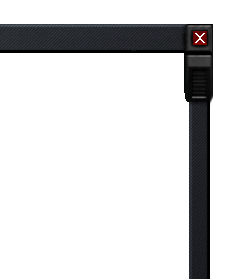
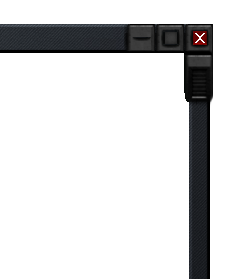
Version 7.3.98 (11.08.2023) - UPDATED: Window resize behaviour - UPDATED: New gui level for border shadow - UPDATED: Noise image resize behaviour - UPDATED: Dependencies - ADDED: Buttons to maximize and minimize the window (not working yet)

Changed region(s): [[0.5021, 0.086, 0.7679, 0.2007]]

diff --git a/net.clanwolf.starmap.client/src/main/java/net/clanwolf/starmap/client/gui/MainFrameController.java b/net.clanwolf.starmap.client/src/main/java/net/clanwolf/starmap/client/gui/MainFrameController.java
@@ -288,7 +288,7 @@ public class MainFrameController extends AbstractC3Controller implements ActionC
 	@FXML
 	private Pane paneVolumeControl;
 	@FXML
-	private Pane paneWindowMoverHandle;
+	private Pane paneWindowMoverHandle, paneNoise;
 	@FXML
 	private TableView<UserHistoryEntry> tblUserHistory;
 
@@ -1558,26 +1558,26 @@ public class MainFrameController extends AbstractC3Controller implements ActionC
 		textTopRightThread.start();
 	}
 
-	private void setupNoiseAnimation() {
-		Platform.runLater(() -> {
-			int COLUMNS = 2;
-			int COUNT = 4;
-			int OFFSET_X = 0;
-			int OFFSET_Y = 0;
-			int WIDTH = 860;
-			int HEIGHT = 524;
-//			int WIDTH = (int) Math.round(noiseImage.getFitWidth());
-//			int HEIGHT = (int) Math.round(noiseImage.getFitHeight());
-
-			InputStream is = this.getClass().getResourceAsStream("/images/noise/noisemap.png");
-			noiseImage.setImage(new Image(is));
-			noiseImage.setViewport(new Rectangle2D(OFFSET_X, OFFSET_Y, WIDTH, HEIGHT));
-			noiseImage.setCache(true);
-			noiseImage.setCacheHint(CacheHint.SPEED);
-			noiseAnimation = new SpriteAnimation(noiseImage, Duration.millis(200), COUNT, COLUMNS, OFFSET_X, OFFSET_Y, WIDTH, HEIGHT);
-			noiseAnimation.setCycleCount(Animation.INDEFINITE);
-		});
-	}
+//	private void setupNoiseAnimation() {
+//		Platform.runLater(() -> {
+//			int COLUMNS = 2;
+//			int COUNT = 4;
+//			int OFFSET_X = 0;
+//			int OFFSET_Y = 0;
+//			int WIDTH = 860;
+//			int HEIGHT = 524;
+////			int WIDTH = (int) Math.round(noiseImage.getFitWidth());
+////			int HEIGHT = (int) Math.round(noiseImage.getFitHeight());
+//
+//			InputStream is = this.getClass().getResourceAsStream("/images/noise/noisemap.png");
+//			noiseImage.setImage(new Image(is));
+//			noiseImage.setViewport(new Rectangle2D(OFFSET_X, OFFSET_Y, WIDTH, HEIGHT));
+//			noiseImage.setCache(true);
+//			noiseImage.setCacheHint(CacheHint.SPEED);
+//			noiseAnimation = new SpriteAnimation(noiseImage, Duration.millis(200), COUNT, COLUMNS, OFFSET_X, OFFSET_Y, WIDTH, HEIGHT);
+//			noiseAnimation.setCycleCount(Animation.INDEFINITE);
+//		});
+//	}
 
 	private void setupSpeechSpectrumAnimation() {
 		if (spectrumAnimation == null) {
@@ -1686,9 +1686,13 @@ public class MainFrameController extends AbstractC3Controller implements ActionC
 		copyrightLabel.setText("©2000-" + year + " - clanwolf.net");
 		spectrumImage.setOpacity(0.1);
 		spectrumImage.setVisible(false);
+
 		noiseImage.setOpacity(0.0);
 		noiseImage.setVisible(false);
 		noiseImage.toFront();
+
+		paneNoise.setOpacity(0.0);
+		paneNoise.setVisible(false);
 
 		Image helpImg = new Image(Objects.requireNonNull(getClass().getResourceAsStream("/images/buttons/help.png")));
 		ImageView view = new ImageView(helpImg);
@@ -2271,24 +2275,26 @@ public class MainFrameController extends AbstractC3Controller implements ActionC
 						duration = random.nextInt(1000 - 100) + 100;
 					}
 
-					noiseImage.toFront();
-					noiseImage.setVisible(true);
-					if (noiseAnimation != null) {
-						noiseAnimation.play();
-					}
+//					noiseImage.toFront();
+//					noiseImage.setVisible(true);
+//					if (noiseAnimation != null) {
+//						noiseAnimation.play();
+//					}
 
-					FadeTransition FadeOutTransition = new FadeTransition(Duration.millis(duration), noiseImage);
+					paneNoise.setVisible(true);
+
+					FadeTransition FadeOutTransition = new FadeTransition(Duration.millis(duration), paneNoise);
 					FadeOutTransition.setFromValue(0.4);
 					FadeOutTransition.setToValue(0.0);
 					FadeOutTransition.setCycleCount(1);
 					FadeOutTransition.setOnFinished(event -> {
-						if (noiseAnimation != null) {
-							noiseAnimation.stop();
-						}
-						noiseImage.setVisible(false);
+//						if (noiseAnimation != null) {
+//							noiseAnimation.stop();
+//						}
+						paneNoise.setVisible(false);
 					});
 
-					FadeTransition FadeInTransition = new FadeTransition(Duration.millis(duration), noiseImage);
+					FadeTransition FadeInTransition = new FadeTransition(Duration.millis(duration), paneNoise);
 					FadeInTransition.setFromValue(0.0);
 					FadeInTransition.setToValue(0.4);
 					FadeInTransition.setCycleCount(1);
@@ -2705,10 +2711,10 @@ public class MainFrameController extends AbstractC3Controller implements ActionC
 	 */
 	private void startup() {
 		setupSpeechSpectrumAnimation();
-		setupNoiseAnimation();
+//		setupNoiseAnimation();
 
-		noiseImage.toFront();
-		noiseImage.setVisible(true);
+//		noiseImage.toFront();
+//		noiseImage.setVisible(true);
 		C3SoundPlayer.getTTSFile(Internationalization.getString("C3_Speech_welcome_message"));
 		C3SoundPlayer.play("/sound/fx/beep_02.mp3", false);
 		C3SoundPlayer.startMusic();

diff --git a/net.clanwolf.starmap.server/src/main/php/insert_new_version.php b/net.clanwolf.starmap.server/src/main/php/insert_new_version.php
@@ -23,10 +23,10 @@ if ($conn->connect_error) {
 	die("Connection failed: " . $conn->connect_error);
 }
 
-$sql = "UPDATE C3.SYSCONFIG SET VALUE='7.3.97' WHERE SYSCONFIG.KEY='VERSION CLIENT'";
+$sql = "UPDATE C3.SYSCONFIG SET VALUE='7.3.98' WHERE SYSCONFIG.KEY='VERSION CLIENT'";
 
 if ($conn->query($sql) === TRUE) {
-  echo "Record updated successfully to 7.3.97.";
+  echo "Record updated successfully to 7.3.98.";
 } else {
   echo "Error updating record: " . $conn->error;
 }
